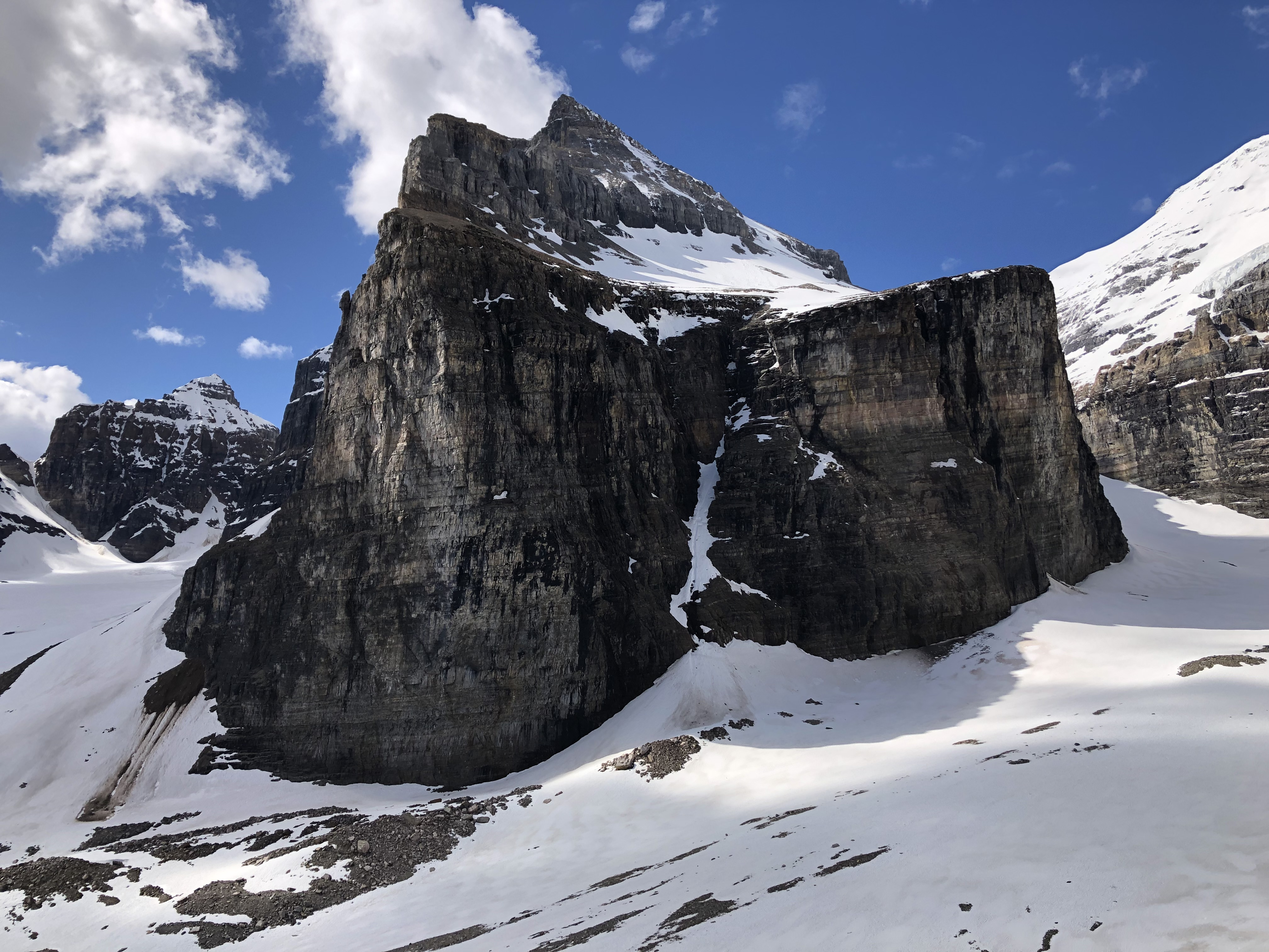
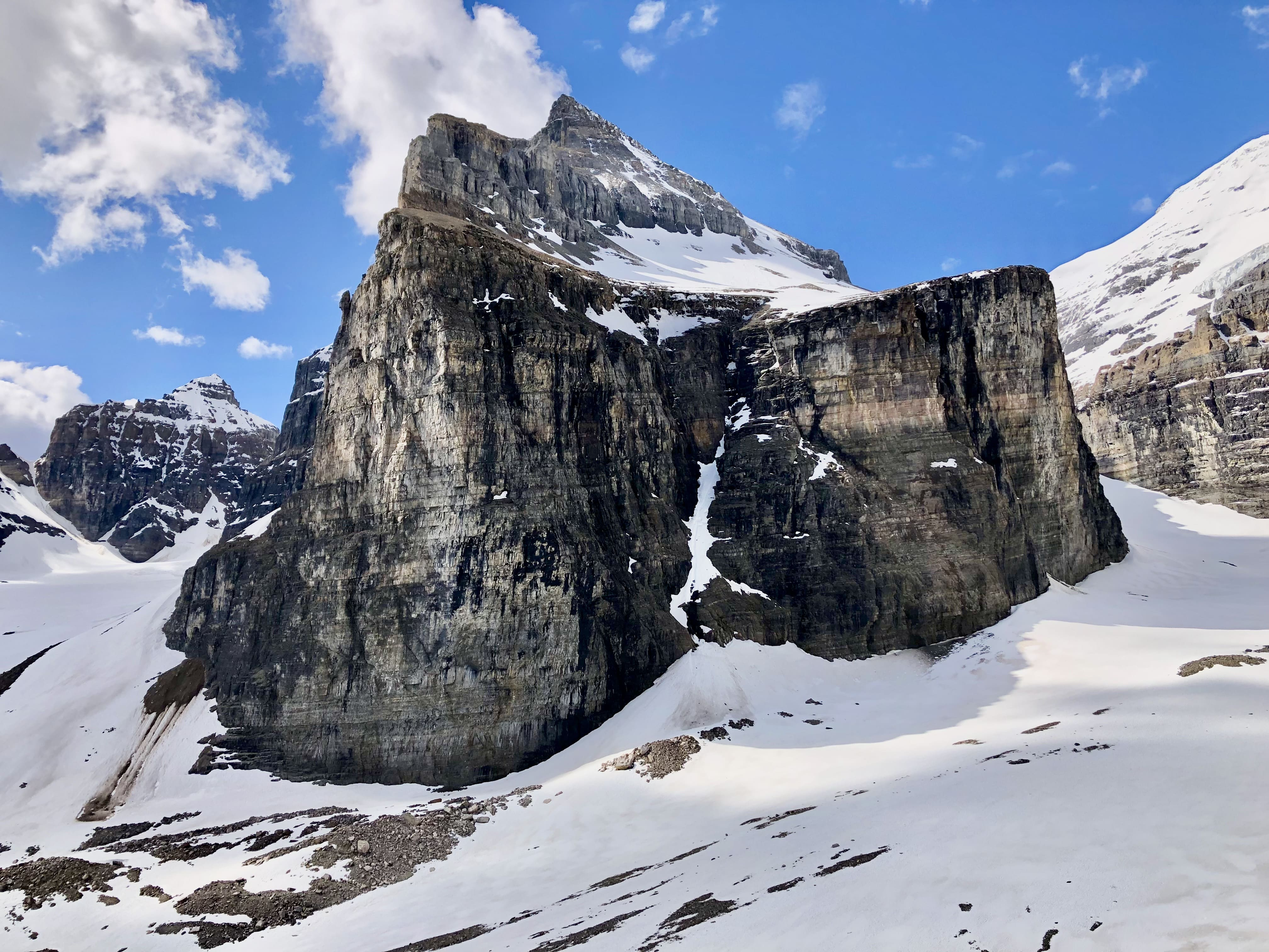
edited photos for plain of 6 glaciers

diff --git a/components/DayTripTimeline.js b/components/DayTripTimeline.js
@@ -523,25 +523,37 @@ const timelines = {
   "six-glaciers": [
     {
       "header": "Lake Louise",
-      "description": "Lake Louise is beautiful, but it's a decoy for more beautiful lakes in the area that are just as easy to access, like Moraine Lake or Lake Minnewanka.",
+      "description": "Beautiful Lake Louise on a cloudy spring day.",
       "left_image": null,
       "right_image": "six-glaciers/IMG_2110.jpg",
     },
     {
-      "header": "The Teahouse",
-      "description": "An old teahouse serves tourists bad coffee and soggy sandwiches at a high price. Lake Louise on the whole is no place for a modest man to in search of food.",
-      "left_image": "six-glaciers/IMG_2112.jpg",
+      "header": "Pointy Peak",
+      "description": "The view of a steep peak on the other side of a pass.",
+      "left_image": "six-glaciers/IMG_2111.jpg",
       "right_image": null,
     },
     {
-      "header": "The Plain of Six Glaciers",
-      "description": "I hiked past the teahouse and up a ridge on The Plain. I looked back at Lake Louise and the ski resort.",
+      "header": "The Teahouse",
+      "description": "The teahouse on the other end of Lake Louise.",
       "left_image": null,
-      "right_image": "six-glaciers/IMG_2117.jpg",
+      "right_image": "six-glaciers/IMG_2112.jpg",
+    },
+    {
+      "header": "The Plain of Six Glaciers",
+      "description": "I hiked past the teahouse and up a ridge on The Plain. This is the view looking back at Lake Louise.",
+      "left_image": "six-glaciers/IMG_2117.jpg",
+      "right_image": null,
     },
     {
       "header": "End of the Ridge",
-      "description": "The ridge runs into a mountain wall.",
+      "description": "A steep peak seen from the end of the trail up the ridge.",
+      "left_image": null,
+      "right_image": "six-glaciers/IMG_2123.jpg",
+    },
+    {
+      "header": "End of the Ridge",
+      "description": "The ridge runs into steep mountain sides.",
       "left_image": "six-glaciers/IMG_2124.jpg",
       "right_image": null,
     },

diff --git a/components/Slideshow.js b/components/Slideshow.js
@@ -2507,10 +2507,6 @@ const photos = {
       caption: ""
     },
     {
-      image: "montagne-noire/IMG_2346.jpg",
-      caption: ""
-    },
-    {
       image: "montagne-noire/IMG_2351.jpg",
       caption: ""
     },
@@ -3938,15 +3934,7 @@ const photos = {
       caption: ""
     },
     {
-      image: "six-glaciers/IMG_2115.jpg",
-      caption: ""
-    },
-    {
       image: "six-glaciers/IMG_2117.jpg",
-      caption: ""
-    },
-    {
-      image: "six-glaciers/IMG_2120.jpg",
       caption: ""
     },
     {

diff --git a/components/Tiles.js b/components/Tiles.js
@@ -279,7 +279,7 @@ const tiles = {
     {
       title: "Plain of Six Glaciers",
       subtitle: "Looking Down on Lake Louise",
-      image: "six-glaciers/IMG_2112.jpg",
+      image: "six-glaciers/IMG_2117.jpg",
       page: "hikes/six-glaciers.html"
     },
     {
